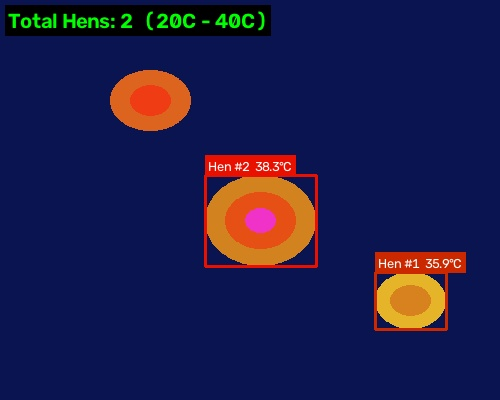
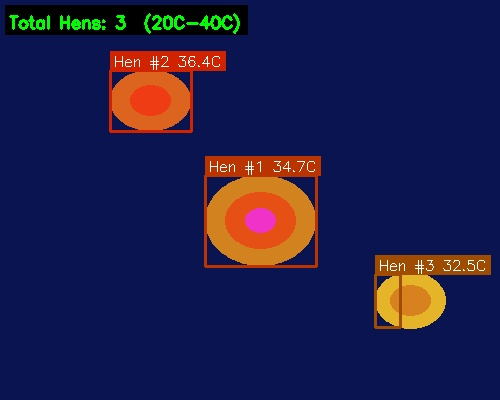
Fix 500 Network Error on upload due to device_identifier UNIQUE constraint violation for WEB-DASHBOARD

diff --git a/mobile/lib/screens/login_screen.dart b/mobile/lib/screens/login_screen.dart
@@ -19,14 +19,22 @@ class _LoginScreenState extends State<LoginScreen> {
 
   Future<void> _submit() async {
     if (!_formKey.currentState!.validate()) return;
-    setState(() { _submitting = true; _error = null; });
+    setState(() {
+      _submitting = true;
+      _error = null;
+    });
 
     final auth = context.read<AuthProvider>();
     final ok = await auth.login(_emailCtrl.text.trim(), _passCtrl.text);
 
     if (mounted) {
-      setState(() { _submitting = false; });
-      if (!ok) setState(() { _error = auth.error; });
+      setState(() {
+        _submitting = false;
+      });
+      if (!ok)
+        setState(() {
+          _error = auth.error;
+        });
     }
   }
 
@@ -46,7 +54,8 @@ class _LoginScreenState extends State<LoginScreen> {
                 child: Column(
                   children: [
                     Container(
-                      width: 72, height: 72,
+                      width: 72,
+                      height: 72,
                       decoration: BoxDecoration(
                         gradient: const LinearGradient(
                           begin: Alignment.topLeft,
@@ -54,13 +63,26 @@ class _LoginScreenState extends State<LoginScreen> {
                           colors: [Color(0xFF4F46E5), Color(0xFF818CF8)],
                         ),
                         borderRadius: BorderRadius.circular(18),
-                        boxShadow: [BoxShadow(color: const Color(0xFF6366F1).withOpacity(0.4), blurRadius: 24, offset: const Offset(0, 8))],
+                        boxShadow: [
+                          BoxShadow(
+                              color: const Color(0xFF6366F1)
+                                  .withValues(alpha: 0.4),
+                              blurRadius: 24,
+                              offset: const Offset(0, 8))
+                        ],
                       ),
-                      child: const Center(child: Text('🛡', style: TextStyle(fontSize: 36))),
+                      child: const Center(
+                          child: Text('🛡', style: TextStyle(fontSize: 36))),
                     ),
                     const SizedBox(height: 16),
-                    const Text('GioTag', style: TextStyle(fontSize: 28, fontWeight: FontWeight.w800, color: Color(0xFFF1F5F9))),
-                    const Text('Secure Evidence System', style: TextStyle(fontSize: 14, color: Color(0xFF64748B))),
+                    const Text('GioTag',
+                        style: TextStyle(
+                            fontSize: 28,
+                            fontWeight: FontWeight.w800,
+                            color: Color(0xFFF1F5F9))),
+                    const Text('Secure Evidence System',
+                        style:
+                            TextStyle(fontSize: 14, color: Color(0xFF64748B))),
                   ],
                 ),
               ),
@@ -79,34 +101,50 @@ class _LoginScreenState extends State<LoginScreen> {
                   child: Column(
                     crossAxisAlignment: CrossAxisAlignment.start,
                     children: [
-                      const Text('Field Officer Login', style: TextStyle(fontSize: 18, fontWeight: FontWeight.w700, color: Color(0xFFF1F5F9))),
+                      const Text('Field Officer Login',
+                          style: TextStyle(
+                              fontSize: 18,
+                              fontWeight: FontWeight.w700,
+                              color: Color(0xFFF1F5F9))),
                       const SizedBox(height: 20),
-
                       if (_error != null) ...[
                         Container(
                           padding: const EdgeInsets.all(12),
                           decoration: BoxDecoration(
-                            color: const Color(0xFFEF4444).withOpacity(0.1),
+                            color:
+                                const Color(0xFFEF4444).withValues(alpha: 0.1),
                             borderRadius: BorderRadius.circular(8),
-                            border: Border.all(color: const Color(0xFFEF4444).withOpacity(0.3)),
+                            border: Border.all(
+                                color: const Color(0xFFEF4444)
+                                    .withValues(alpha: 0.3)),
                           ),
-                          child: Text(_error!, style: const TextStyle(color: Color(0xFFFCA5A5), fontSize: 13)),
+                          child: Text(_error!,
+                              style: const TextStyle(
+                                  color: Color(0xFFFCA5A5), fontSize: 13)),
                         ),
                         const SizedBox(height: 12),
                       ],
-
-                      _buildField('Email', _emailCtrl, keyboardType: TextInputType.emailAddress,
-                        validator: (v) => null),
+                      _buildField('Email', _emailCtrl,
+                          keyboardType: TextInputType.emailAddress,
+                          validator: (v) => null),
                       const SizedBox(height: 12),
-                      _buildField('Password', _passCtrl, obscureText: _obscurePass,
+                      _buildField(
+                        'Password',
+                        _passCtrl,
+                        obscureText: _obscurePass,
                         suffixIcon: IconButton(
-                          icon: Icon(_obscurePass ? Icons.visibility : Icons.visibility_off, color: const Color(0xFF64748B), size: 18),
-                          onPressed: () => setState(() => _obscurePass = !_obscurePass),
+                          icon: Icon(
+                              _obscurePass
+                                  ? Icons.visibility
+                                  : Icons.visibility_off,
+                              color: const Color(0xFF64748B),
+                              size: 18),
+                          onPressed: () =>
+                              setState(() => _obscurePass = !_obscurePass),
                         ),
                         validator: (v) => null,
                       ),
                       const SizedBox(height: 20),
-
                       SizedBox(
                         width: double.infinity,
                         child: ElevatedButton(
@@ -115,12 +153,20 @@ class _LoginScreenState extends State<LoginScreen> {
                             backgroundColor: const Color(0xFF4F46E5),
                             foregroundColor: Colors.white,
                             padding: const EdgeInsets.symmetric(vertical: 14),
-                            shape: RoundedRectangleBorder(borderRadius: BorderRadius.circular(10)),
+                            shape: RoundedRectangleBorder(
+                                borderRadius: BorderRadius.circular(10)),
                             elevation: 0,
                           ),
                           child: _submitting
-                            ? const SizedBox(width: 20, height: 20, child: CircularProgressIndicator(strokeWidth: 2, color: Colors.white))
-                            : const Text('Sign In', style: TextStyle(fontWeight: FontWeight.w700, fontSize: 15)),
+                              ? const SizedBox(
+                                  width: 20,
+                                  height: 20,
+                                  child: CircularProgressIndicator(
+                                      strokeWidth: 2, color: Colors.white))
+                              : const Text('Sign In',
+                                  style: TextStyle(
+                                      fontWeight: FontWeight.w700,
+                                      fontSize: 15)),
                         ),
                       ),
                     ],
@@ -129,7 +175,8 @@ class _LoginScreenState extends State<LoginScreen> {
               ),
 
               const SizedBox(height: 24),
-              const Center(child: Text(
+              const Center(
+                  child: Text(
                 '⚠ Authorized personnel only.\nAll actions are logged and audited.',
                 style: TextStyle(fontSize: 11, color: Color(0xFF475569)),
                 textAlign: TextAlign.center,
@@ -141,14 +188,22 @@ class _LoginScreenState extends State<LoginScreen> {
     );
   }
 
-  Widget _buildField(String label, TextEditingController ctrl, {
-    TextInputType? keyboardType, bool obscureText = false,
-    Widget? suffixIcon, String? Function(String?)? validator,
+  Widget _buildField(
+    String label,
+    TextEditingController ctrl, {
+    TextInputType? keyboardType,
+    bool obscureText = false,
+    Widget? suffixIcon,
+    String? Function(String?)? validator,
   }) {
     return Column(
       crossAxisAlignment: CrossAxisAlignment.start,
       children: [
-        Text(label, style: const TextStyle(fontSize: 12, fontWeight: FontWeight.w600, color: Color(0xFF94A3B8))),
+        Text(label,
+            style: const TextStyle(
+                fontSize: 12,
+                fontWeight: FontWeight.w600,
+                color: Color(0xFF94A3B8))),
         const SizedBox(height: 6),
         TextFormField(
           controller: ctrl,
@@ -160,10 +215,17 @@ class _LoginScreenState extends State<LoginScreen> {
             suffixIcon: suffixIcon,
             filled: true,
             fillColor: const Color(0xFF1E2C42),
-            border: OutlineInputBorder(borderRadius: BorderRadius.circular(8), borderSide: const BorderSide(color: Color(0xFF1E2C42))),
-            focusedBorder: OutlineInputBorder(borderRadius: BorderRadius.circular(8), borderSide: const BorderSide(color: Color(0xFF6366F1))),
-            enabledBorder: OutlineInputBorder(borderRadius: BorderRadius.circular(8), borderSide: const BorderSide(color: Color(0xFF1E2C42))),
-            contentPadding: const EdgeInsets.symmetric(horizontal: 14, vertical: 12),
+            border: OutlineInputBorder(
+                borderRadius: BorderRadius.circular(8),
+                borderSide: const BorderSide(color: Color(0xFF1E2C42))),
+            focusedBorder: OutlineInputBorder(
+                borderRadius: BorderRadius.circular(8),
+                borderSide: const BorderSide(color: Color(0xFF6366F1))),
+            enabledBorder: OutlineInputBorder(
+                borderRadius: BorderRadius.circular(8),
+                borderSide: const BorderSide(color: Color(0xFF1E2C42))),
+            contentPadding:
+                const EdgeInsets.symmetric(horizontal: 14, vertical: 12),
           ),
         ),
       ],

diff --git a/mobile/lib/main.dart b/mobile/lib/main.dart
@@ -40,14 +40,16 @@ class GioTagApp extends StatelessWidget {
           primary: Color(0xFF6366F1),
           secondary: Color(0xFF818CF8),
           surface: Color(0xFF1A2235),
-          background: Color(0xFF0A0E1A),
         ),
         fontFamily: 'Inter',
         appBarTheme: const AppBarTheme(
           backgroundColor: Color(0xFF111827),
           elevation: 0,
           iconTheme: IconThemeData(color: Color(0xFF94A3B8)),
-          titleTextStyle: TextStyle(color: Color(0xFFF1F5F9), fontSize: 18, fontWeight: FontWeight.w700),
+          titleTextStyle: TextStyle(
+              color: Color(0xFFF1F5F9),
+              fontSize: 18,
+              fontWeight: FontWeight.w700),
         ),
       ),
       home: Consumer<AuthProvider>(
@@ -63,7 +65,11 @@ class GioTagApp extends StatelessWidget {
                     SizedBox(height: 16),
                     CircularProgressIndicator(color: Color(0xFF6366F1)),
                     SizedBox(height: 12),
-                    Text('GioTag', style: TextStyle(color: Color(0xFFF1F5F9), fontSize: 18, fontWeight: FontWeight.bold)),
+                    Text('GioTag',
+                        style: TextStyle(
+                            color: Color(0xFFF1F5F9),
+                            fontSize: 18,
+                            fontWeight: FontWeight.bold)),
                   ],
                 ),
               ),
@@ -71,8 +77,8 @@ class GioTagApp extends StatelessWidget {
           }
 
           return auth.isAuthenticated
-            ? HomeScreen(cameras: cameras)
-            : const LoginScreen();
+              ? HomeScreen(cameras: cameras)
+              : const LoginScreen();
         },
       ),
     );

diff --git a/test_upload.py b/test_upload.py
@@ -1,0 +1,33 @@
+import requests
+import json
+import os
+
+url = "http://localhost:8000/api/evidence"
+metadata = {
+    "latitude": 13.0,
+    "longitude": 80.0,
+    "capture_timestamp": "2024-05-10T12:00:00Z",
+    "device_identifier": "WEB-DASHBOARD",
+    "client_hash": "dummyhash"
+}
+
+# create dummy image
+with open("test.jpg", "wb") as f:
+    f.write(b"fake image data")
+
+with open("test.jpg", "rb") as f:
+    files = {"file": ("test.jpg", f, "image/jpeg")}
+    data = {"metadata_json": json.dumps(metadata)}
+    # need auth token!
+    # Let's just login first to get the token
+    login_resp = requests.post("http://localhost:8000/api/auth/login", json={"email": "admin@giotag.com", "password": "Password123"})
+    if login_resp.status_code != 200:
+        print("Login failed:", login_resp.text)
+        exit(1)
+        
+    token = login_resp.json()["access_token"]
+    headers = {"Authorization": f"Bearer {token}"}
+    
+    resp = requests.post(url, files=files, data=data, headers=headers)
+    print(resp.status_code)
+    print(resp.text)

diff --git a/backend/app/api/evidence.py b/backend/app/api/evidence.py
@@ -131,15 +131,16 @@ async def upload_evidence(
     # Check device authorization
     device = None
     if meta.device_identifier == "WEB-DASHBOARD":
+        web_device_id = f"WEB-DASHBOARD-{current_user.id}"
         device = db.query(Device).filter(
-            Device.device_identifier == "WEB-DASHBOARD",
+            Device.device_identifier == web_device_id,
             Device.user_id == current_user.id
         ).first()
         if not device:
             device = Device(
                 id=str(uuid.uuid4()),
                 user_id=current_user.id,
-                device_identifier="WEB-DASHBOARD",
+                device_identifier=web_device_id,
                 device_name="Web Dashboard",
                 status=DeviceStatusEnum.AUTHORIZED,
                 authorized_by=current_user.id,
